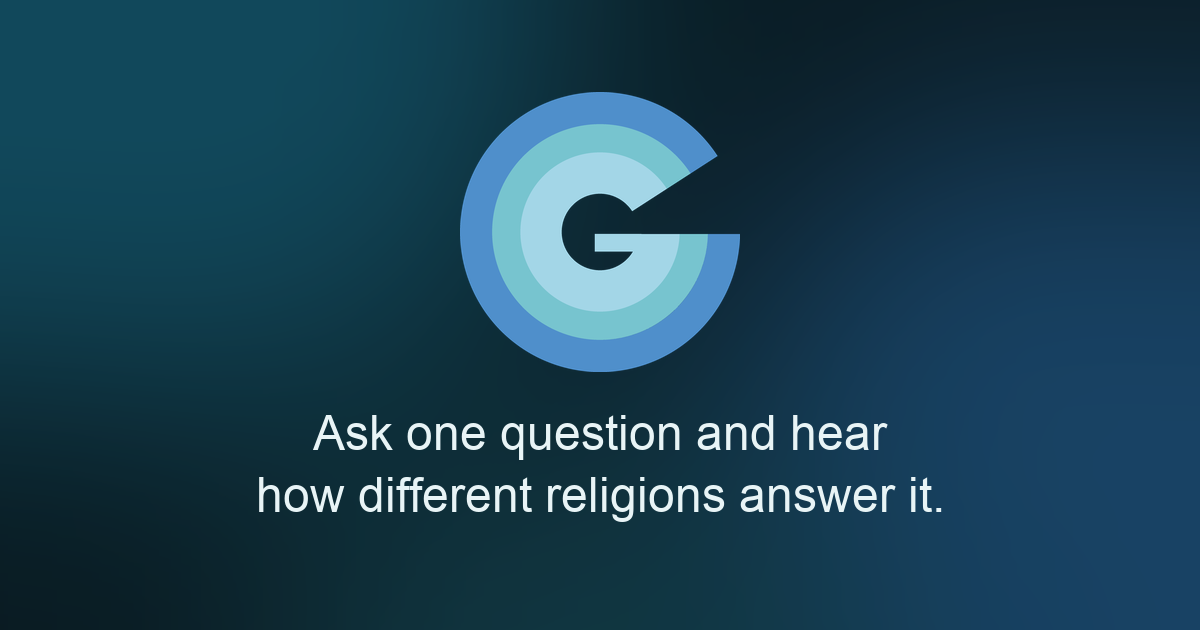
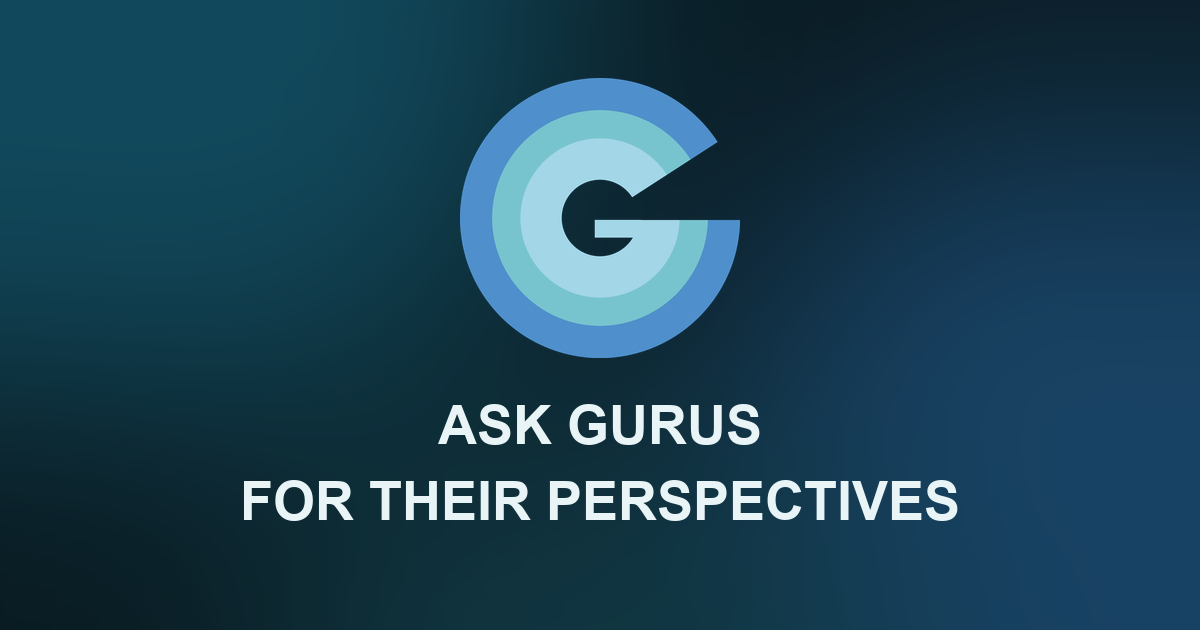
Share card: title "Ask Gurus for their perspectives", image with the same words
- og:title and twitter:title are "Ask Gurus for their perspectives"; no share description
- The share image shows the logo and the title in two lines, all capitals

Changed region(s): [[0.37, 0.1206, 0.6167, 0.6032], [0.185, 0.754, 0.8017, 0.8444], [0.2467, 0.6333, 0.74, 0.7238]]

diff --git a/app/root.tsx b/app/root.tsx
@@ -9,6 +9,8 @@ import "./styles/app.css";
 const BASE = import.meta.env.BASE_URL;
 const SITE = "https://guru.situs.id";
 const DESCRIPTION = "Ask one question and hear how different religions answer it.";
+// The title on a shared link (Open Graph and Twitter), with no description of its own; the browser tab keeps "Guru".
+const SHARE_TITLE = "Ask Gurus for their perspectives";
 
 // Dark unless the visitor chose light; set before the first paint, so there is no flash.
 const THEME_SCRIPT = `try{document.documentElement.dataset.theme=localStorage.getItem("guru-theme")==="light"?"light":"dark"}catch(e){document.documentElement.dataset.theme="dark"}`;
@@ -18,16 +20,14 @@ export const meta: Route.MetaFunction = () => [
   { name: "description", content: DESCRIPTION },
   { property: "og:type", content: "website" },
   { property: "og:site_name", content: "Guru" },
-  { property: "og:title", content: "Guru" },
-  { property: "og:description", content: DESCRIPTION },
+  { property: "og:title", content: SHARE_TITLE },
   { property: "og:url", content: `${SITE}/` },
   { property: "og:image", content: `${SITE}/og-image.png` },
   { property: "og:image:width", content: "1200" },
   { property: "og:image:height", content: "630" },
-  { property: "og:image:alt", content: "Guru: ask one question and hear how different religions answer it." },
+  { property: "og:image:alt", content: "Guru: Ask Gurus for their perspectives." },
   { name: "twitter:card", content: "summary_large_image" },
-  { name: "twitter:title", content: "Guru" },
-  { name: "twitter:description", content: DESCRIPTION },
+  { name: "twitter:title", content: SHARE_TITLE },
   { name: "twitter:image", content: `${SITE}/og-image.png` },
 ];
 

diff --git a/tools/make_icons.py b/tools/make_icons.py
@@ -50,7 +50,7 @@ def draw(size: int, padding: float = 0.0, background: str | None = None) -> Imag
 
 FONT = "/System/Library/Fonts/Supplemental/Arial Bold.ttf"
 FONT_TEXT = "/System/Library/Fonts/Supplemental/Arial.ttf"
-TAGLINE = ["Ask one question and hear", "how different religions answer it."]
+TAGLINE = ["ASK GURUS", "FOR THEIR PERSPECTIVES"]  # the share title (app/root.tsx) in two lines, all capitals
 
 
 def og_image() -> Image.Image:
@@ -64,11 +64,11 @@ def og_image() -> Image.Image:
     d.ellipse([260, 420, 900, 900], fill="#13404c")
     img = Image.blend(img, blobs.filter(ImageFilter.GaussianBlur(120)), 0.75)
     logo = draw(280)
-    img.paste(logo, ((w - 280) // 2, 92), logo)
+    img.paste(logo, ((w - 280) // 2, 78), logo)
     d = ImageDraw.Draw(img)
-    tag = ImageFont.truetype(FONT_TEXT, 48)
+    tag = ImageFont.truetype(FONT, 54)
     for i, line in enumerate(TAGLINE):
-        d.text((w // 2, 450 + i * 62), line, font=tag, fill="#e8f4f6", anchor="ms")
+        d.text((w // 2, 444 + i * 76), line, font=tag, fill="#e8f4f6", anchor="ms")
     return img
 
 
